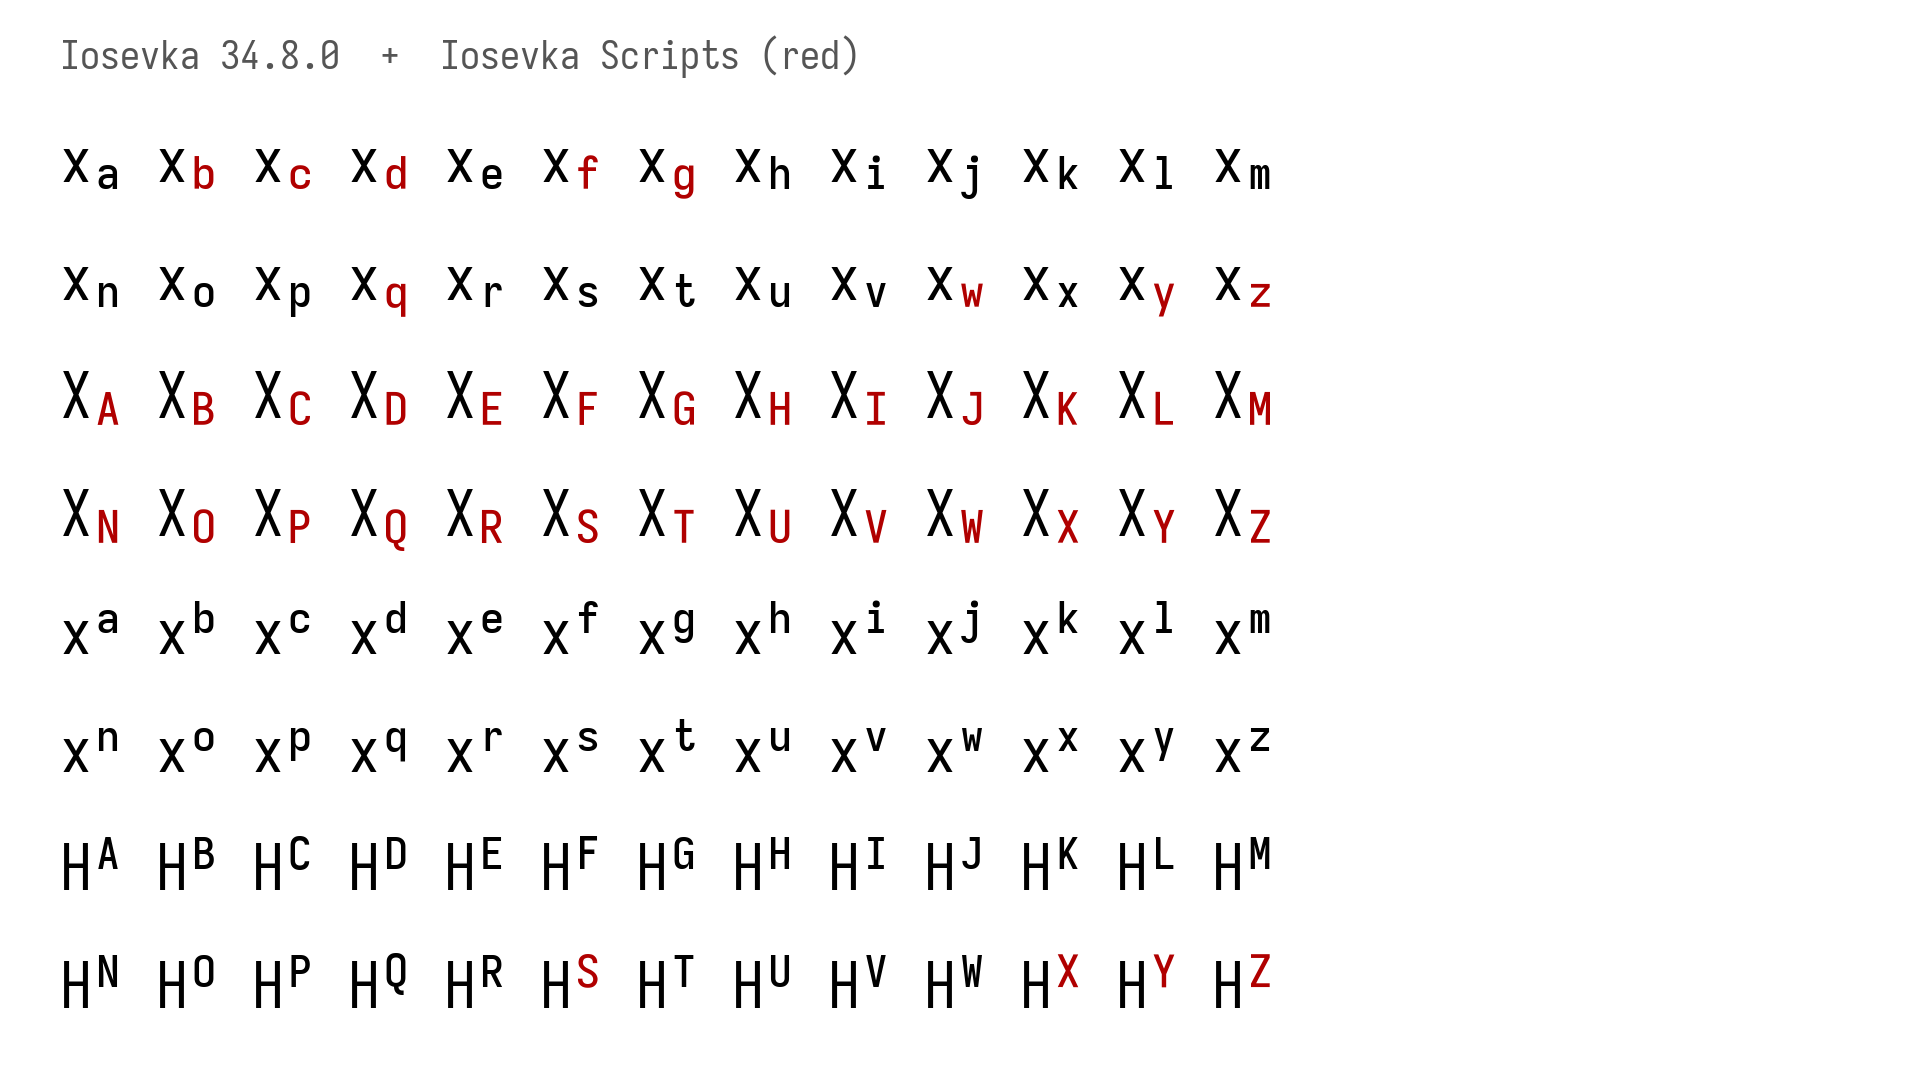
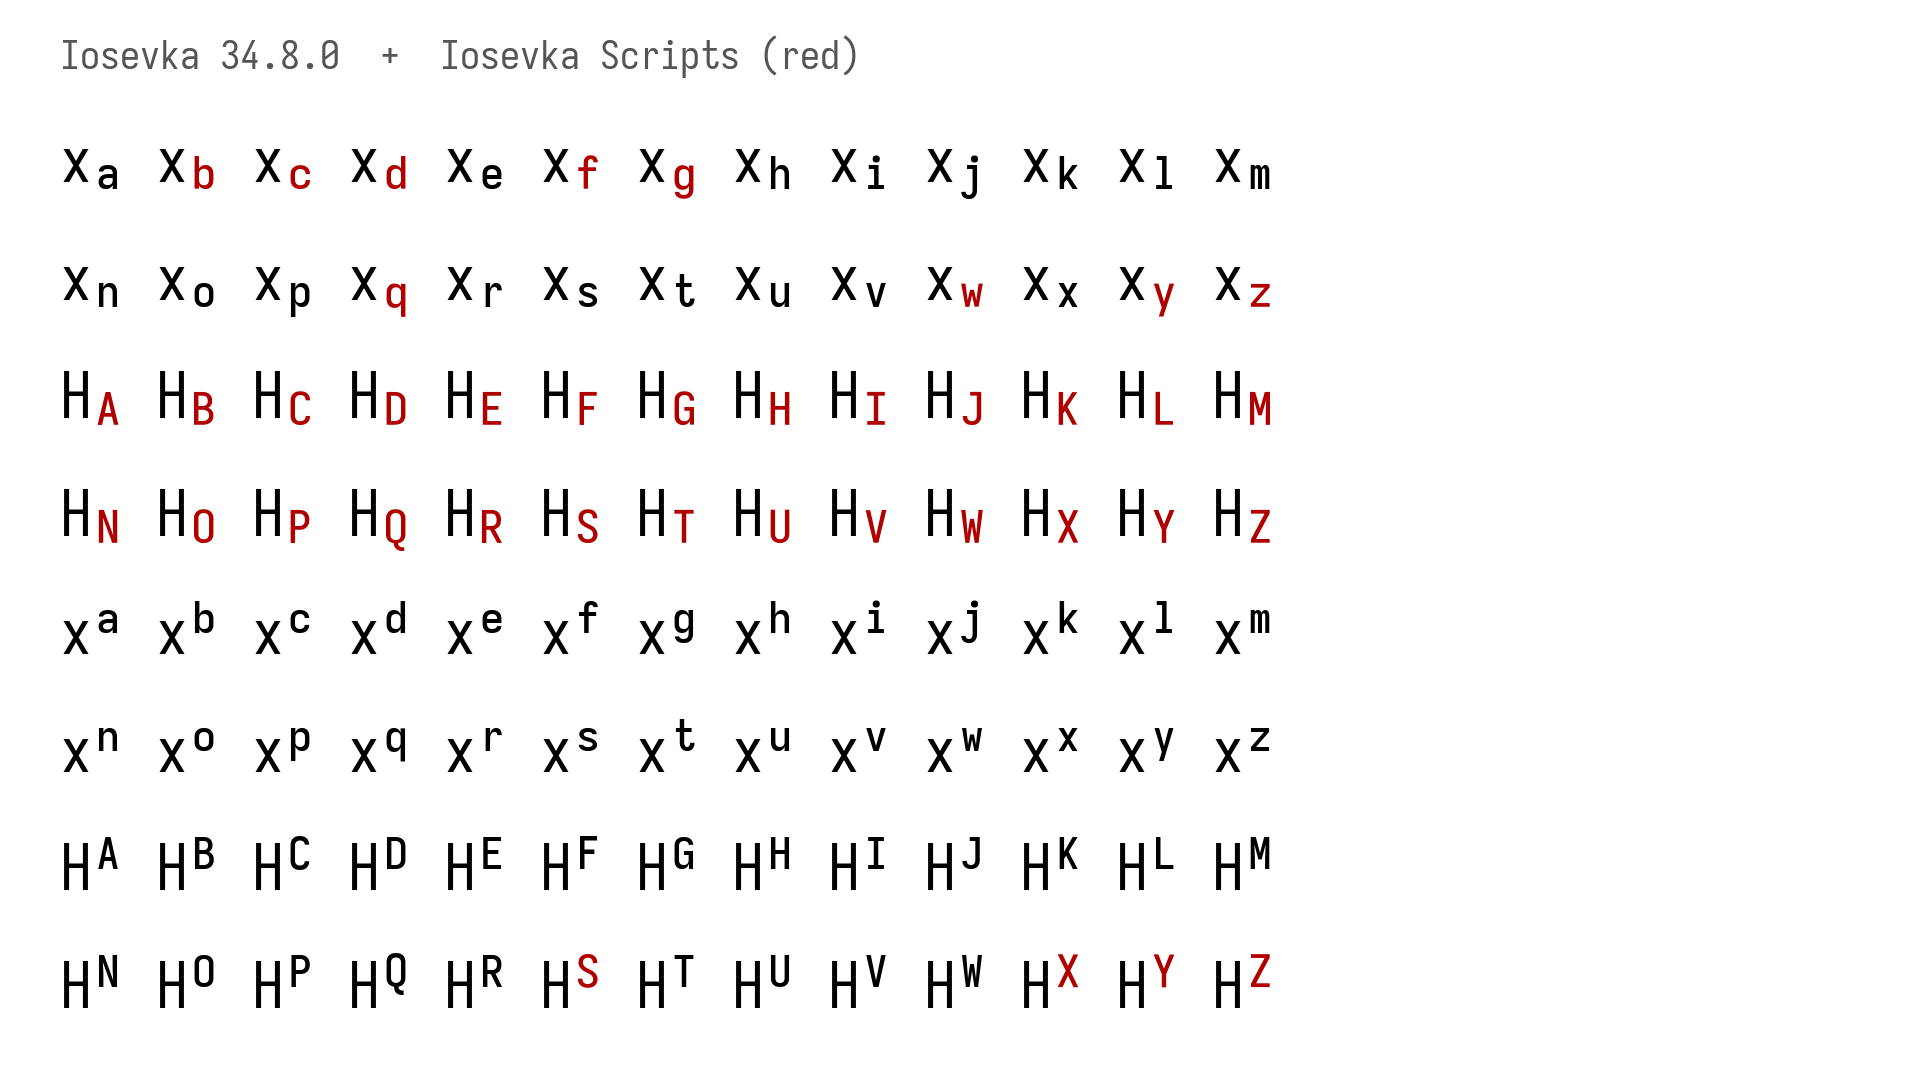
[c] put every capital script letter after H in the preview and specimens, instead of X for subscripts and H for superscripts

diff --git a/preview.py b/preview.py
@@ -14,7 +14,7 @@ from build import ROOT, fetch, member_of, subscript_point, superscript_point
 SIZE = 40
 sample = ' '.join([
     'x' + chr(subscript_point('a')), 'x' + chr(subscript_point('b')), 'x' + chr(subscript_point('g')), 'x' + chr(subscript_point('n')),
-    'X' + chr(subscript_point('A')), 'X' + chr(subscript_point('Q')),
+    'H' + chr(subscript_point('A')), 'H' + chr(subscript_point('Q')),
     ' x' + chr(superscript_point('a')), 'x' + chr(superscript_point('n')), 'x' + chr(superscript_point('q')),
     'M' + chr(superscript_point('C')), 'M' + chr(superscript_point('S')), 'M' + chr(superscript_point('Z')),
 ])
@@ -51,7 +51,7 @@ print(os.path.join(ROOT, 'preview.png'), image.size)
 #one 1920x1080 specimen per font in specimens/: every sub- and superscript letter after an ordinary letter, half an alphabet per line
 os.makedirs(os.path.join(ROOT, 'specimens'), exist_ok=True)
 halves = ['abcdefghijklm', 'nopqrstuvwxyz', 'ABCDEFGHIJKLM', 'NOPQRSTUVWXYZ']
-lines = [' '.join(('x' if c.islower() else 'X') + chr(subscript_point(c)) for c in half) for half in halves] + [' '.join(('x' if c.islower() else 'H') + chr(superscript_point(c)) for c in half) for half in halves]
+lines = [' '.join(('x' if c.islower() else 'H') + chr(point(c)) for c in half) for point in (subscript_point, superscript_point) for half in halves]
 for entry in entries:
     source = source_font(entry)
     companion_path = os.path.join(ROOT, 'fonts', entry['family'].replace(' ', ''), entry['family'].replace(' ', '') + '-Regular.ttf')
